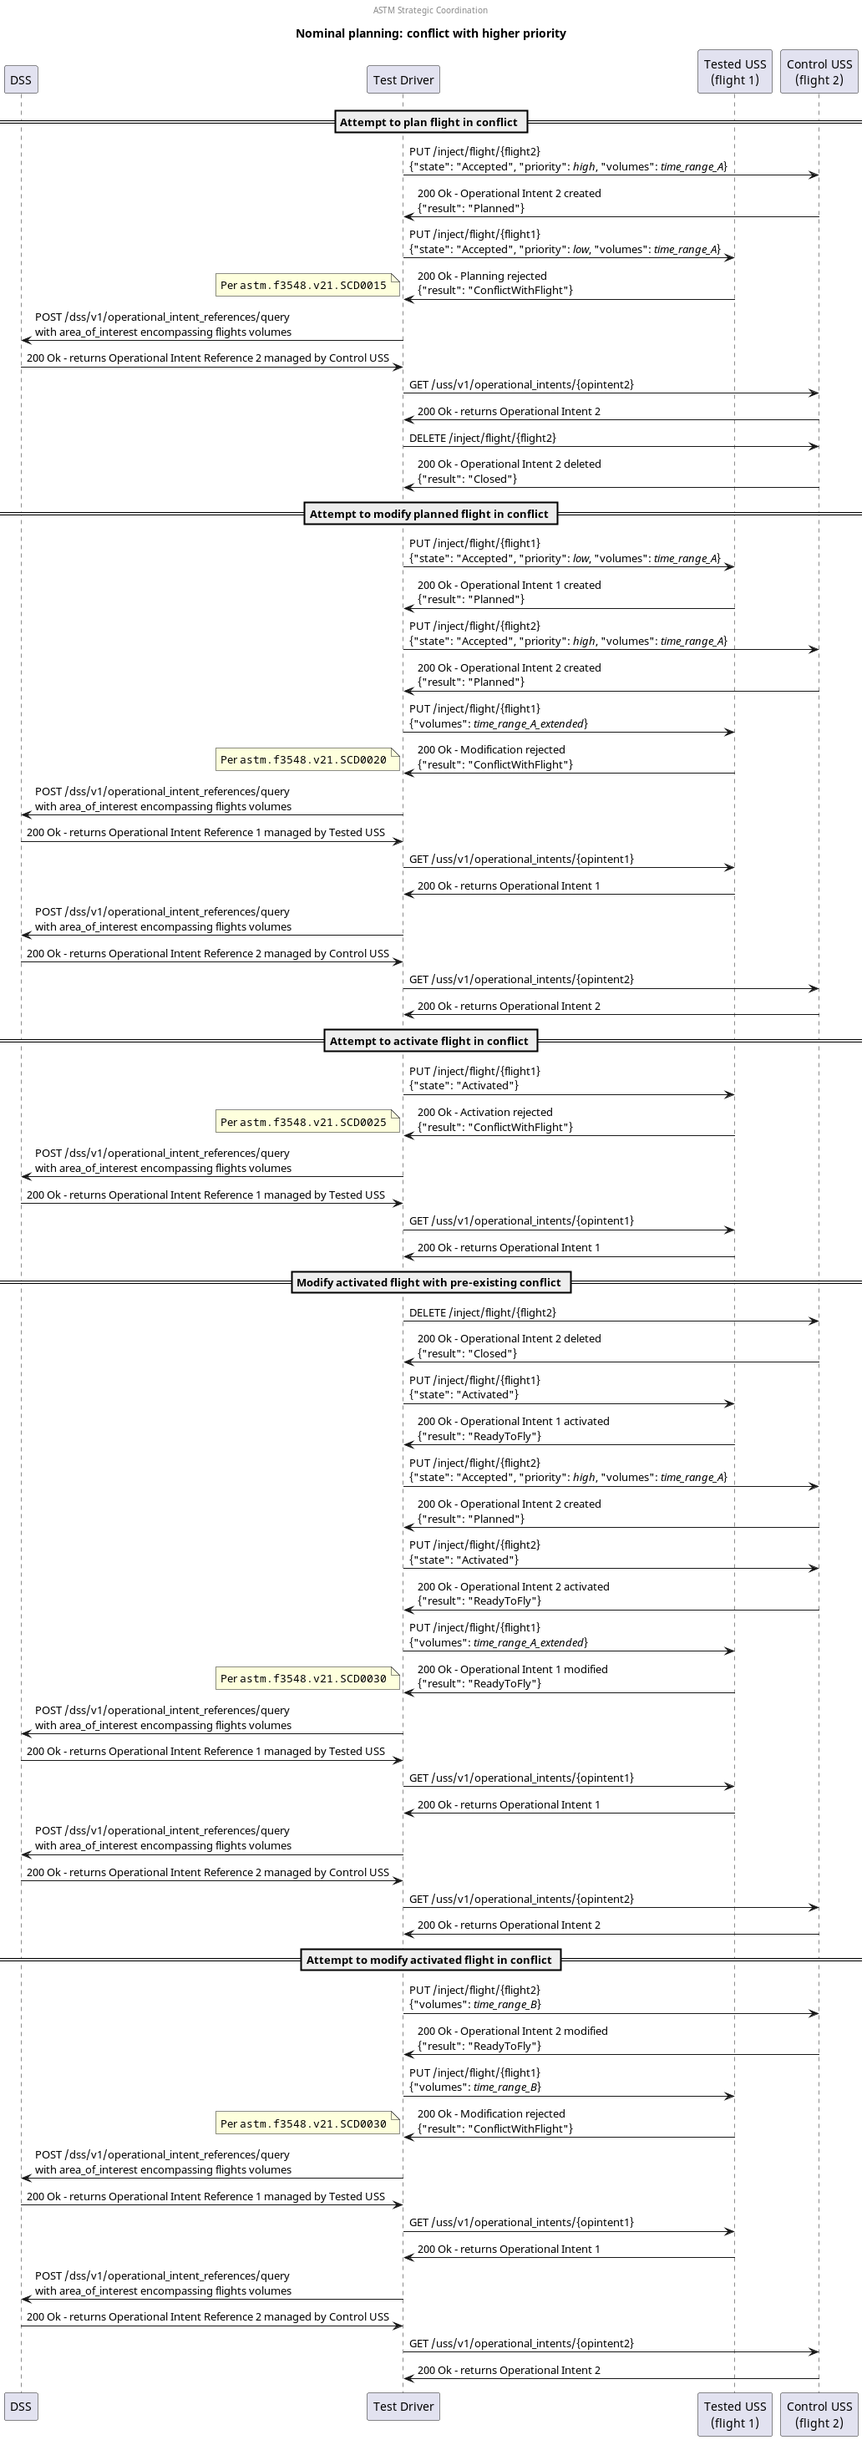
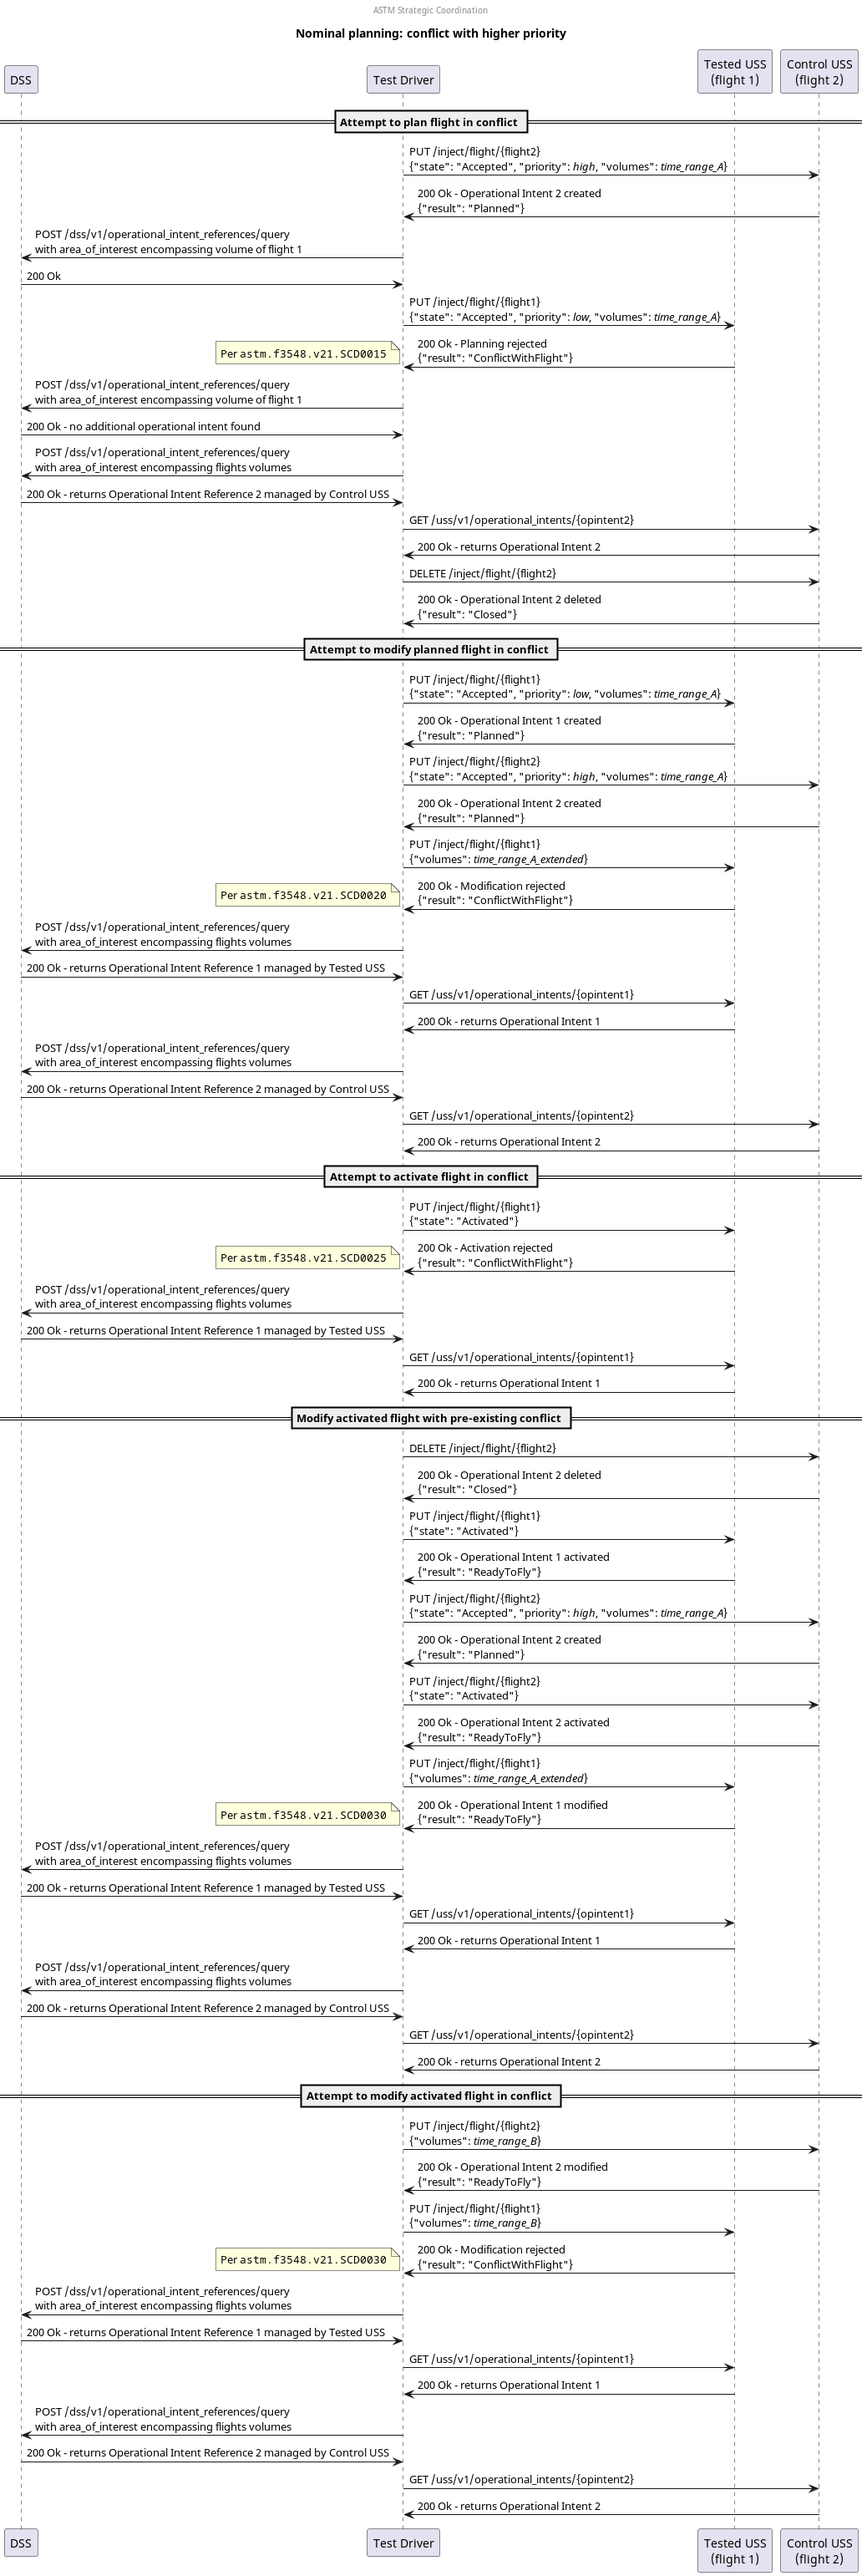
[uss_qualifer] Add test step to validate operational intent was not shared (#90)
* [uss_qualifer] Add test step to validate operational intent was not shared

* regen image

diff --git a/monitoring/uss_qualifier/scenarios/astm/utm/test_steps.py b/monitoring/uss_qualifier/scenarios/astm/utm/test_steps.py
@@ -1,7 +1,13 @@
-from monitoring.monitorlib import schema_validation
+from typing import List, Set
+
+from monitoring.monitorlib import schema_validation, fetch
 from uas_standards.astm.f3548.v21.api import OperationalIntentState
 
-from monitoring.monitorlib.scd import bounding_vol4
+from monitoring.monitorlib.scd import (
+    bounding_vol4,
+    OperationalIntentReference,
+    Volume4D,
+)
 from monitoring.monitorlib.scd_automated_testing.scd_injection_api import (
     InjectFlightRequest,
 )
@@ -14,6 +20,71 @@ from monitoring.uss_qualifier.scenarios.astm.utm.evaluation import (
     validate_op_intent_details,
 )
 from monitoring.uss_qualifier.scenarios.scenario import TestScenarioType
+
+
+class ValidateNotSharedOperationalIntent(object):
+    """Validate that an operational intent information was not shared with the DSS by comparing the operational intents
+    found in the area of the flight intent before and after the planning attempt.
+    This assumes an area lock on the extent of the flight intent.
+
+    This class is meant to be used within a `with` statement.
+    It implements the test step described in validate_not_shared_operational_intent.md.
+    """
+
+    _scenario: TestScenarioType
+    _flight_planner: FlightPlanner
+    _dss: DSSInstance
+    _test_step: str
+
+    _flight_intent_extent: Volume4D
+    _initial_op_intent_refs: List[OperationalIntentReference]
+    _initial_query: fetch.Query
+
+    def __init__(
+        self,
+        scenario: TestScenarioType,
+        flight_planner: FlightPlanner,
+        dss: DSSInstance,
+        test_step: str,
+        flight_intent: InjectFlightRequest,
+    ):
+        self._scenario = scenario
+        self._flight_planner = flight_planner
+        self._dss = dss
+        self._test_step = test_step
+
+        self._flight_intent_extent = bounding_vol4(
+            flight_intent.operational_intent.volumes
+            + flight_intent.operational_intent.off_nominal_volumes
+        )
+
+    def __enter__(self):
+        self._initial_op_intent_refs, self._initial_query = self._dss.find_op_intent(
+            self._flight_intent_extent
+        )
+
+    def __exit__(self, exc_type, exc_val, exc_tb):
+        self._scenario.begin_test_step(self._test_step)
+        self._scenario.record_query(self._initial_query)
+
+        op_intent_refs, query = self._dss.find_op_intent(self._flight_intent_extent)
+        self._scenario.record_query(query)
+
+        oi_ids_delta = {oi_ref.id for oi_ref in op_intent_refs} - {
+            oi_ref.id for oi_ref in self._initial_op_intent_refs
+        }
+        with self._scenario.check(
+            "Operational intent not shared", [self._flight_planner.participant_id]
+        ) as check:
+            if len(oi_ids_delta) > 0:
+                check.record_failed(
+                    summary="Operational intent reference was incorrectly shared with DSS",
+                    severity=Severity.High,
+                    details=f"USS {self._flight_planner.participant_id} was not supposed to share an operational intent with the DSS, but new operational intent(s) with ID(s) {oi_ids_delta} were found",
+                    query_timestamps=[query.request.timestamp],
+                )
+
+        self._scenario.end_test_step()
 
 
 def validate_shared_operational_intent(

diff --git a/monitoring/uss_qualifier/scenarios/astm/utm/nominal_planning/conflict_higher_priority/conflict_higher_priority.py b/monitoring/uss_qualifier/scenarios/astm/utm/nominal_planning/conflict_higher_priority/conflict_higher_priority.py
@@ -22,6 +22,7 @@ from monitoring.uss_qualifier.resources.flight_planning.flight_planners import (
 )
 from monitoring.uss_qualifier.scenarios.astm.utm.test_steps import (
     validate_shared_operational_intent,
+    ValidateNotSharedOperationalIntent,
 )
 from monitoring.uss_qualifier.scenarios.flight_planning.prioritization_test_steps import (
     activate_priority_conflict_flight_intent,
@@ -235,12 +236,19 @@ class ConflictHigherPriority(TestScenario):
             self.flight_2_planned_time_range_A.request,
         )
 
-        _ = plan_priority_conflict_flight_intent(
+        with ValidateNotSharedOperationalIntent(
             self,
-            "Attempt to plan flight 1",
             self.tested_uss,
+            self.dss,
+            "Validate flight 1 not shared",
             self.flight_1_planned_time_range_A.request,
-        )
+        ):
+            _ = plan_priority_conflict_flight_intent(
+                self,
+                "Attempt to plan flight 1",
+                self.tested_uss,
+                self.flight_1_planned_time_range_A.request,
+            )
 
         validate_shared_operational_intent(
             self,
@@ -250,8 +258,6 @@ class ConflictHigherPriority(TestScenario):
             self.flight_2_planned_time_range_A.request,
             resp_flight_2.operational_intent_id,
         )
-
-        # TODO: add validation test step that op intent for flight 1 was not created
 
         _ = delete_flight_intent(
             self, "Delete flight 2", self.control_uss, self.flight_2_id

diff --git a/monitoring/uss_qualifier/scenarios/astm/utm/nominal_planning/conflict_higher_priority/conflict_higher_priority.md b/monitoring/uss_qualifier/scenarios/astm/utm/nominal_planning/conflict_higher_priority/conflict_higher_priority.md
@@ -72,9 +72,9 @@ The higher priority flight should be successfully planned by the control USS.
 The test driver attempts to plan the flight 1 via the tested USS. However, it conflicts with flight 2, which is of
 higher priority. As such it should be rejected per **[astm.f3548.v21.SCD0015](../../../../../requirements/astm/f3548/v21.md)**.
 
-### [Validate flight 2 sharing test step](../../validate_shared_operational_intent.md)
+### [Validate flight 1 not shared test step](../../validate_not_shared_operational_intent.md)
 
-TODO: add validation test step that op intent for flight 1 was not created
+### [Validate flight 2 sharing test step](../../validate_shared_operational_intent.md)
 
 ### [Delete flight 2 test step](../../../../flight_planning/delete_flight_intent.md)
 

diff --git a/monitoring/uss_qualifier/scenarios/astm/utm/validate_not_shared_operational_intent.md b/monitoring/uss_qualifier/scenarios/astm/utm/validate_not_shared_operational_intent.md
@@ -1,0 +1,11 @@
+# Validate operational intent not shared test step
+
+This step verifies that a previous attempt to create a flight did not result in a flight being shared with the DSS.
+It does so by querying the DSS for operational intents in the area of the flight before and after an attempted creation.
+This assumes an area lock on the extent of the flight intent.
+
+See `ValidateNotSharedOperationalIntent` in [test_steps.py](test_steps.py).
+
+## Operational intent not shared check
+If there are new operational intent references in the area of the flight intent, this check will fail per
+**interuss.automated_testing.flight_planning.ExpectedBehavior**.
